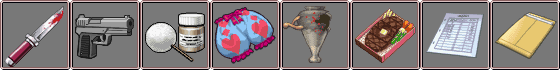
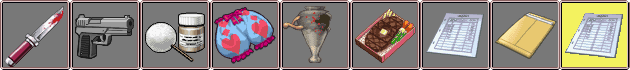
Added ShowCards, right now displays a black screen and exit button

diff --git a/Header/GamePlay.h b/Header/GamePlay.h
@@ -1,6 +1,7 @@
 void Gameplay();
 int SortCards(int cardsInUse[18], int index);
 void AssignCards(Player players[], int sortedCards[]);
+void ShowCards(Texture2D guiT[], bool shouldShow[1], Vector2 mouse);
 
 void Gameplay() {
     const int screenWidth = GetScreenWidth();
@@ -21,16 +22,17 @@ void Gameplay() {
 
     Texture2D items = LoadTexture("../Assets/item icons.png");
     Rectangle knifeMask = {0, 0, 70, 70};
-    Rectangle gunMask = {items.width / 8, 0, 70, 70};
-    Rectangle poisonMask = {items.width * 2 / 8, 0, 70, 70};
-    Rectangle pantiesMask = {items.width * 3 / 8, 0, 70, 70};
-    Rectangle jarMask = {items.width * 4 / 8, 0, 70, 70};
-    Rectangle steakMask = {items.width * 5 / 6, 0, 70, 70};
+    Rectangle gunMask = {items.width / 9, 0, 70, 70};
+    Rectangle poisonMask = {items.width * 2 / 9, 0, 70, 70};
+    Rectangle pantiesMask = {items.width * 3 / 9, 0, 70, 70};
+    Rectangle jarMask = {items.width * 4 / 9, 0, 70, 70};
+    Rectangle steakMask = {items.width * 5 / 9, 0, 70, 70};
     Rectangle cardMasks[] = {knifeMask, gunMask, poisonMask, pantiesMask, jarMask, steakMask};
 
-    Rectangle notesMask = {items.width * 6 / 8, 0, 70, 70};
-    Rectangle casefileMask = {items.width * 7 / 8, 0, 70, 70};
-    Rectangle itemsMasks[] = {notesMask, casefileMask};
+    Rectangle notesMask = {items.width * 6 / 9, 0, 70, 70};
+    Rectangle casefileMask = {items.width * 7 / 9, 0, 70, 70};
+    Rectangle notesSelectedMask = {items.width * 8 / 9, 0, 70, 70};
+    Rectangle itemsMasks[] = {notesMask, casefileMask, notesSelectedMask};
 
     Texture2D notesSheet = LoadTexture("../Assets/notesSheet.png");
 
@@ -57,10 +59,21 @@ void Gameplay() {
         sortedCards[i] = SortCards(sortedCards, i);
     AssignCards(players, sortedCards);
 
+    Button showCardsButton = {
+        items,
+        {216, 85 + (activePlayer * 160)},
+        itemsMasks[NOTESSELECTED],
+        {showCardsButton.position.x, showCardsButton.position.y, 70, 70},
+        0
+    };
+
+    bool shouldShowCards[1] = {false};
+
     while(!WindowShouldClose())
     {
         BeginDrawing();
         ClearBackground(DARKBROWN);
+        mousePoint = GetMousePosition();
         DrawTextureRec(board, (Rectangle) {0, 0, board.width, board.height}, (Vector2) {400, 10}, RAYWHITE);
 
         // Draw Characters
@@ -85,6 +98,8 @@ void Gameplay() {
         DrawTextureRec(items, itemsMasks[NOTES], (Vector2) {216, 245}, RAYWHITE);
         DrawTextureRec(items, itemsMasks[NOTES], (Vector2) {216, 405}, RAYWHITE);
         DrawTextureRec(items, itemsMasks[NOTES], (Vector2) {216, 565}, RAYWHITE);
+        if (showCardsButton.status)
+            DrawTextureRec(items, itemsMasks[NOTESSELECTED], (Vector2) {216, 85}, RAYWHITE);
 
         // Active Player marker
         DrawRectangle(10, 35 + (160 * activePlayer), 20, 138, YELLOW);
@@ -101,9 +116,27 @@ void Gameplay() {
         DrawText("Acusar", 1130, 565, 50, BLACK);
         DrawText("Opciones", 1220, 660, 30, BLACK);
 
-
-//        DrawRectangle(0, 0, 1000, 900, (Color) {0, 0, 0, 100});
-
+        if (shouldShowCards[0])
+        {
+            ShowCards(guiTextures, shouldShowCards, mousePoint);
+        }
+        else
+        {
+            if (IsMouseButtonPressed(MOUSE_LEFT_BUTTON)) {
+                if (IsMouseButtonDown(MOUSE_LEFT_BUTTON)) {
+                    if (CheckCollisionPointRec(mousePoint, showCardsButton.collision)) {
+                        showCardsButton.status = 1;
+                    }
+                }
+            }
+            if (IsMouseButtonReleased(MOUSE_LEFT_BUTTON)) {
+                if (CheckCollisionPointRec(mousePoint, showCardsButton.collision)) {
+                    if (showCardsButton.status)
+                        shouldShowCards[0] = true;
+                }
+                showCardsButton.status = 0;
+            }
+        }
         EndDrawing();
     }
     CloseWindow();
@@ -144,4 +177,31 @@ void AssignCards(Player players[], int sortedCards[])
             players[player].cards[5] = unusedCards[2];
         }
     }
+}
+
+void ShowCards(Texture2D guiT[], bool shouldShow[1], Vector2 mouse)
+{
+    Button exit = {
+            guiT[TGREY],
+            {GetScreenWidth() - 50, GetScreenHeight() - 50},
+            {186, 433, 36, 36},
+            {exit.position.x, exit.position.y, exit.mask.width, exit.mask.height},
+            0
+    };
+
+    if (CheckCollisionPointRec(mouse, exit.collision))
+    {
+        exit.texture = guiT[TRED];
+        exit.mask = (Rectangle) {381, 36, 36, 36};
+    }
+    if (IsMouseButtonPressed(MOUSE_LEFT_BUTTON))
+    {
+        if (CheckCollisionPointRec(mouse, exit.collision))
+        {
+            shouldShow[0] = false;
+        }
+    }
+
+    DrawRectangle(0, 0, GetScreenWidth(),  GetScreenHeight(), (Color) {0, 0, 0, 125});
+    DrawTextureRec(exit.texture, exit.mask, exit.position, WHITE);
 }

diff --git a/Header/Globals.h b/Header/Globals.h
@@ -48,7 +48,8 @@ enum cards_enum {
 
 enum items_enum {
     NOTES,
-    CASEFILE
+    CASEFILE,
+    NOTESSELECTED
 };
 
 enum movements_enum {
